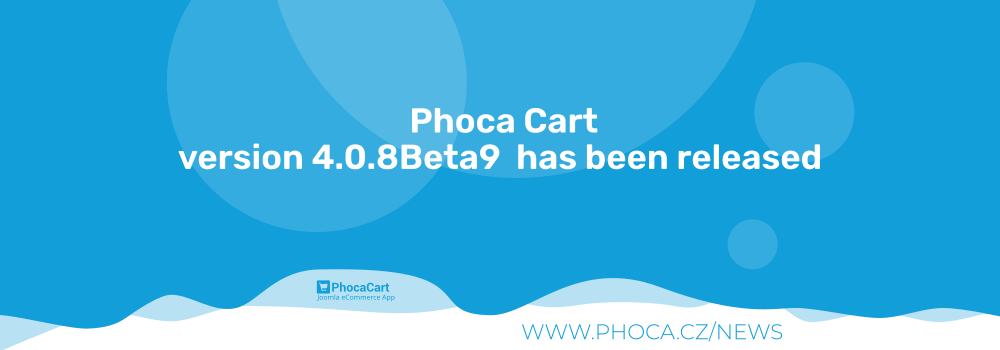
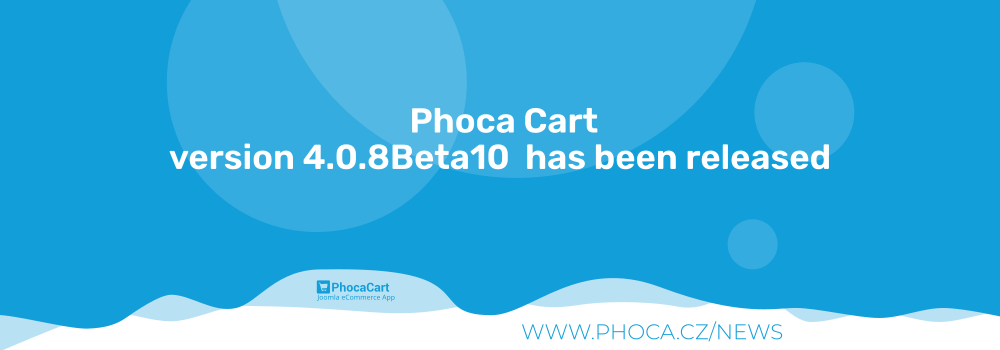
4.0.8Beta10

Changed region(s): [[0.155, 0.4, 0.837, 0.4857]]

diff --git a/script.php b/script.php
@@ -37,7 +37,7 @@ class com_phocacartInstallerScript
 
         $folder[3][0]	=	'phocacartdownloadpublic' ;
         $folder[3][1]	= 	JPATH_ROOT . '/' . $folder[3][0];
-		
+
 		$folder[4][0]	=	'phocacartattachment' ;
         $folder[4][1]	= 	JPATH_ROOT . '/' . $folder[4][0];
 
@@ -49,10 +49,10 @@ class com_phocacartInstallerScript
 
         $folder[7][0]	=	'plugins/pcv' ; // View
         $folder[7][1]	= 	JPATH_ROOT . '/' . $folder[7][0];
-		
+
 		$folder[8][0]	=	'plugins/pcf' ; // Feed
         $folder[8][1]	= 	JPATH_ROOT . '/' . $folder[8][0];
-		
+
 		$folder[9][0]	=	'plugins/pcl' ; // Layout
         $folder[9][1]	= 	JPATH_ROOT . '/' . $folder[9][0];
 
@@ -166,8 +166,46 @@ class com_phocacartInstallerScript
 			$o .= ' <div class="g5-phoca">';
 			$o .=    '<a href="https://www.phoca.cz" target="_blank"><span>Phoca</span></a>';
 			$o .= ' </div>';
-			$o .= '</div>';
+            ///$o .= '</div>';
 
+
+
+            $upEL = 'https://extensions.joomla.org/extension/phoca-cart/';
+            $upE = 'Phoca Cart';
+
+            $o .= '<div class="upBox">';
+
+            $o .=  '<div class="upItem upItemD">';
+            $o .=  '<div class="upItemText">If you find this project useful, please support it with a donation</div>';
+            $o .=  '<form action="https://www.paypal.com/donate" method="post" target="_top">';
+            $o .=  '<input type="hidden" name="hosted_button_id" value="ZVPH25SQ2DDBY" />';
+            $o .=  '<input type="image" src="https://www.paypalobjects.com/en_US/i/btn/btn_donateCC_LG.gif" border="0" name="submit" title="PayPal - The safer, easier way to pay online!" alt="Donate with PayPal button" />';
+            $o .=  '<img alt="" border="0" src="https://www.paypal.com/en_CZ/i/scr/pixel.gif" width="1" height="1" />';
+            $o .=  '</form>';
+            $o .=  '</div>';
+
+            $o .=  '<div class="upItem upItemJ">';
+            $o .=  '<div class="upItemText">If you find this project useful, please post a rating and review on the Joomla! Extension Directory website</div>';
+            $o .=  '<a class="upItemLink" target="_blank" href="'. $upEL.'">'. $upE.' (JED website)</a>';
+            $o .=  '</form>';
+            $o .=  '</div>';
+
+            $o .=  '<div class="upItem upItemDoc">';
+            $o .=  '<div class="upItemText">If you need help, visit</div>';
+            $o .=  '<a class="upItemLink" target="_blank" href="https://www.phoca.cz/documentation">Phoca documentatin website</a>';
+            $o .=  '<div class="upItemText">or ask directly in</div>';
+            $o .=  '<a class="upItemLink" target="_blank" href="https://www.phoca.cz/forum">Phoca forum website</a>';
+            $o .=  '</div>';
+
+            $o .=  '<div class="upItem upItemPh">';
+            $o .=  '<div class="upItemText">There are over a hundred more useful Phoca extensions, discover them on</div>';
+            $o .=  '<a class="upItemLink" target="_blank" href="https://www.phoca.cz">Phoca website</a>';
+            $o .=  '</div>';
+
+            $o .=  '</div>';
+
+
+            $o .= '</div>';//g5i
 			echo $o;
 		}
 
@@ -260,6 +298,9 @@ class com_phocacartInstallerScript
 	font-size: 0;
 }
 
+.g5i .g5-phoca a::before {
+   content: none;
+}
 /* container */
 .g5i {
 	position: relative;
@@ -270,6 +311,67 @@ class com_phocacartInstallerScript
 	background-size: cover;
 	border-radius: 6px;
 }
+
+
+.upBox {
+    display: flex;
+    flex-wrap: wrap;
+    margin-top:1em;
+    margin-bottom: 2em;
+}
+
+.upItemText {
+    margin-bottom: 1em;
+}
+
+.upItem {
+    padding: 1em;
+    text-align: center;
+    width: calc(50% - 0.4em);
+    margin: 0.2em;
+    border-radius: 0.3em;
+}
+
+.upItemD {
+    background: #F5D042;
+    color: #000;
+}
+.upItemPh {
+    background: rgba(255,255,255,0.7);
+    color: #000;
+}
+.upItemDoc {
+    background: rgba(255,255,255,0.7);
+    color: #000;
+}
+.upItemJ {
+    background: rgba(255,255,255,0.7);
+    color: #000;
+}
+
+a.upItemLink {
+    padding: 0.5em 1em;
+    border-radius: 9999px;
+    margin: 1em;
+    display: inline-block;
+}
+
+a.upItemLink::before {
+    content: none;
+}
+.upItemPh a.upItemLink {
+    background: #000;
+    color: #fff;
+}
+.upItemDoc a.upItemLink {
+    background: #000;
+    color: #fff;
+}
+.upItemJ a.upItemLink {
+    background: #000;
+    color: #fff;
+}
+
 </style>";
 	}
 }

diff --git a/admin/views/phocacartinfo/tmpl/default.php b/admin/views/phocacartinfo/tmpl/default.php
@@ -7,6 +7,8 @@
  * @license http://www.gnu.org/copyleft/gpl.html GNU/GPL
  */
 defined('_JEXEC') or die;
+
+use Joomla\CMS\Factory;
 use Joomla\CMS\HTML\HTMLHelper;
 use Joomla\CMS\Language\Text;
 use Joomla\CMS\Uri\Uri;
@@ -53,9 +55,119 @@ echo HTMLHelper::_('image', $this->t['i'] . 'logo.png', 'Phoca.cz');
 
 echo '<p>&nbsp;</p>';
 
-echo '<div class="ph-cp-hr"></div>'.'<div class="btn-group">
-						 
-<a class="btn btn-large btn-primary" href="https://www.phoca.cz/version/index.php?'.$this->t['c'].'='.  $this->t['version'] .'" target="_blank"><i class="icon-loop icon-white"></i>&nbsp;&nbsp;'.  JText::_($this->t['l'].'_CHECK_FOR_UPDATE') .'</a></div>';
+
+$wa = Factory::getApplication()->getDocument()->getWebAssetManager();
+$wa->addInlineStyle('
+
+.upBox {
+    display: flex;
+    flex-wrap: wrap;
+    margin-top:1em;
+    margin-bottom: 2em;
+}
+
+.upItemText {
+    margin-bottom: 1em;
+}
+
+.upItem {
+    padding: 1em;
+    text-align: center;
+    width: calc(50% - 0.4em);
+    margin: 0.2em;
+    border-radius: 0.3em;
+}
+
+.upItemD {
+    background: #F5D042;
+    color: #000;
+    border: 2px solid #F5D042;
+
+}
+.upItemPh {
+    background: rgba(255,255,255,0.7);
+    color: #000;
+    border: 2px solid #000;
+}
+.upItemDoc {
+    background: rgba(255,255,255,0.7);
+    color: #000;
+    border: 2px solid #000;
+}
+.upItemJ {
+    background: rgba(255,255,255,0.7);
+    color: #000;
+    border: 2px solid #000;
+}
+
+a.upItemLink {
+    padding: 0.5em 1em;
+    border-radius: 9999px;
+    margin: 1em;
+    display: inline-block;
+}
+
+a.upItemLink::before {
+    content: none;
+}
+.upItemPh a.upItemLink {
+    background: #000;
+    color: #fff;
+}
+.upItemDoc a.upItemLink {
+    background: #000;
+    color: #fff;
+}
+.upItemJ a.upItemLink {
+    background: #000;
+    color: #fff;
+}
+');
+
+$upEL = 'https://extensions.joomla.org/extension/phoca-cart/';
+$upE = 'Phoca Cart';
+
+$o = '<div class="upBox">';
+
+$o .=  '<div class="upItem upItemD">';
+$o .=  '<div class="upItemText">If you find this project useful, please support it with a donation</div>';
+$o .=  '<form action="https://www.paypal.com/donate" method="post" target="_top">';
+$o .=  '<input type="hidden" name="hosted_button_id" value="ZVPH25SQ2DDBY" />';
+$o .=  '<input type="image" src="https://www.paypalobjects.com/en_US/i/btn/btn_donateCC_LG.gif" border="0" name="submit" title="PayPal - The safer, easier way to pay online!" alt="Donate with PayPal button" />';
+$o .=  '<img alt="" border="0" src="https://www.paypal.com/en_CZ/i/scr/pixel.gif" width="1" height="1" />';
+$o .=  '</form>';
+$o .=  '</div>';
+
+$o .=  '<div class="upItem upItemJ">';
+$o .=  '<div class="upItemText">If you find this project useful, please post a rating and review on the Joomla! Extension Directory website</div>';
+$o .=  '<a class="upItemLink" target="_blank" href="'. $upEL.'">'. $upE.' (JED website)</a>';
+$o .=  '</form>';
+$o .=  '</div>';
+
+$o .=  '<div class="upItem upItemDoc">';
+$o .=  '<div class="upItemText">If you need help, visit</div>';
+$o .=  '<a class="upItemLink" target="_blank" href="https://www.phoca.cz/documentation">Phoca documentatin website</a>';
+$o .=  '<div class="upItemText">or ask directly in</div>';
+$o .=  '<a class="upItemLink" target="_blank" href="https://www.phoca.cz/forum">Phoca forum website</a>';
+$o .=  '</div>';
+
+$o .=  '<div class="upItem upItemPh">';
+$o .=  '<div class="upItemText">There are over a hundred more useful Phoca extensions, discover them on</div>';
+$o .=  '<a class="upItemLink" target="_blank" href="https://www.phoca.cz">Phoca website</a>';
+$o .=  '</div>';
+
+$o .=  '</div>';
+echo $o;
+
+
+echo '<div class="ph-cp-hr"></div>';
+
+echo '<div class="btn-group">';
+
+echo '<a class="btn btn-large btn-primary ph-cp-btn-update" href="https://www.phoca.cz/version/index.php?'.$this->t['c'].'='.  $this->t['version'] .'" target="_blank"><i class="icon-loop icon-white"></i>&nbsp;&nbsp;'.  Text::_($this->t['l'].'_CHECK_FOR_UPDATE') .'</a></div>';
+
+
+echo '<div class="clearfix"></div>';
 
 echo '<div style="margin-top:30px;height:39px;background: url(\''.Uri::root(true).'/media/com_'.$this->t['c'].'/images/administrator/line.png\') 100% 0 no-repeat;">&nbsp;</div>';
 

diff --git a/README.MD b/README.MD
@@ -128,7 +128,7 @@ Phoca Cart is e-commerce extension - powerful shopping cart for Joomla! CMS. Pho
 
 ## Version (Joomla! 4.x)
 
-4.0.8Beta9
+4.0.8Beta10
 
 
 
